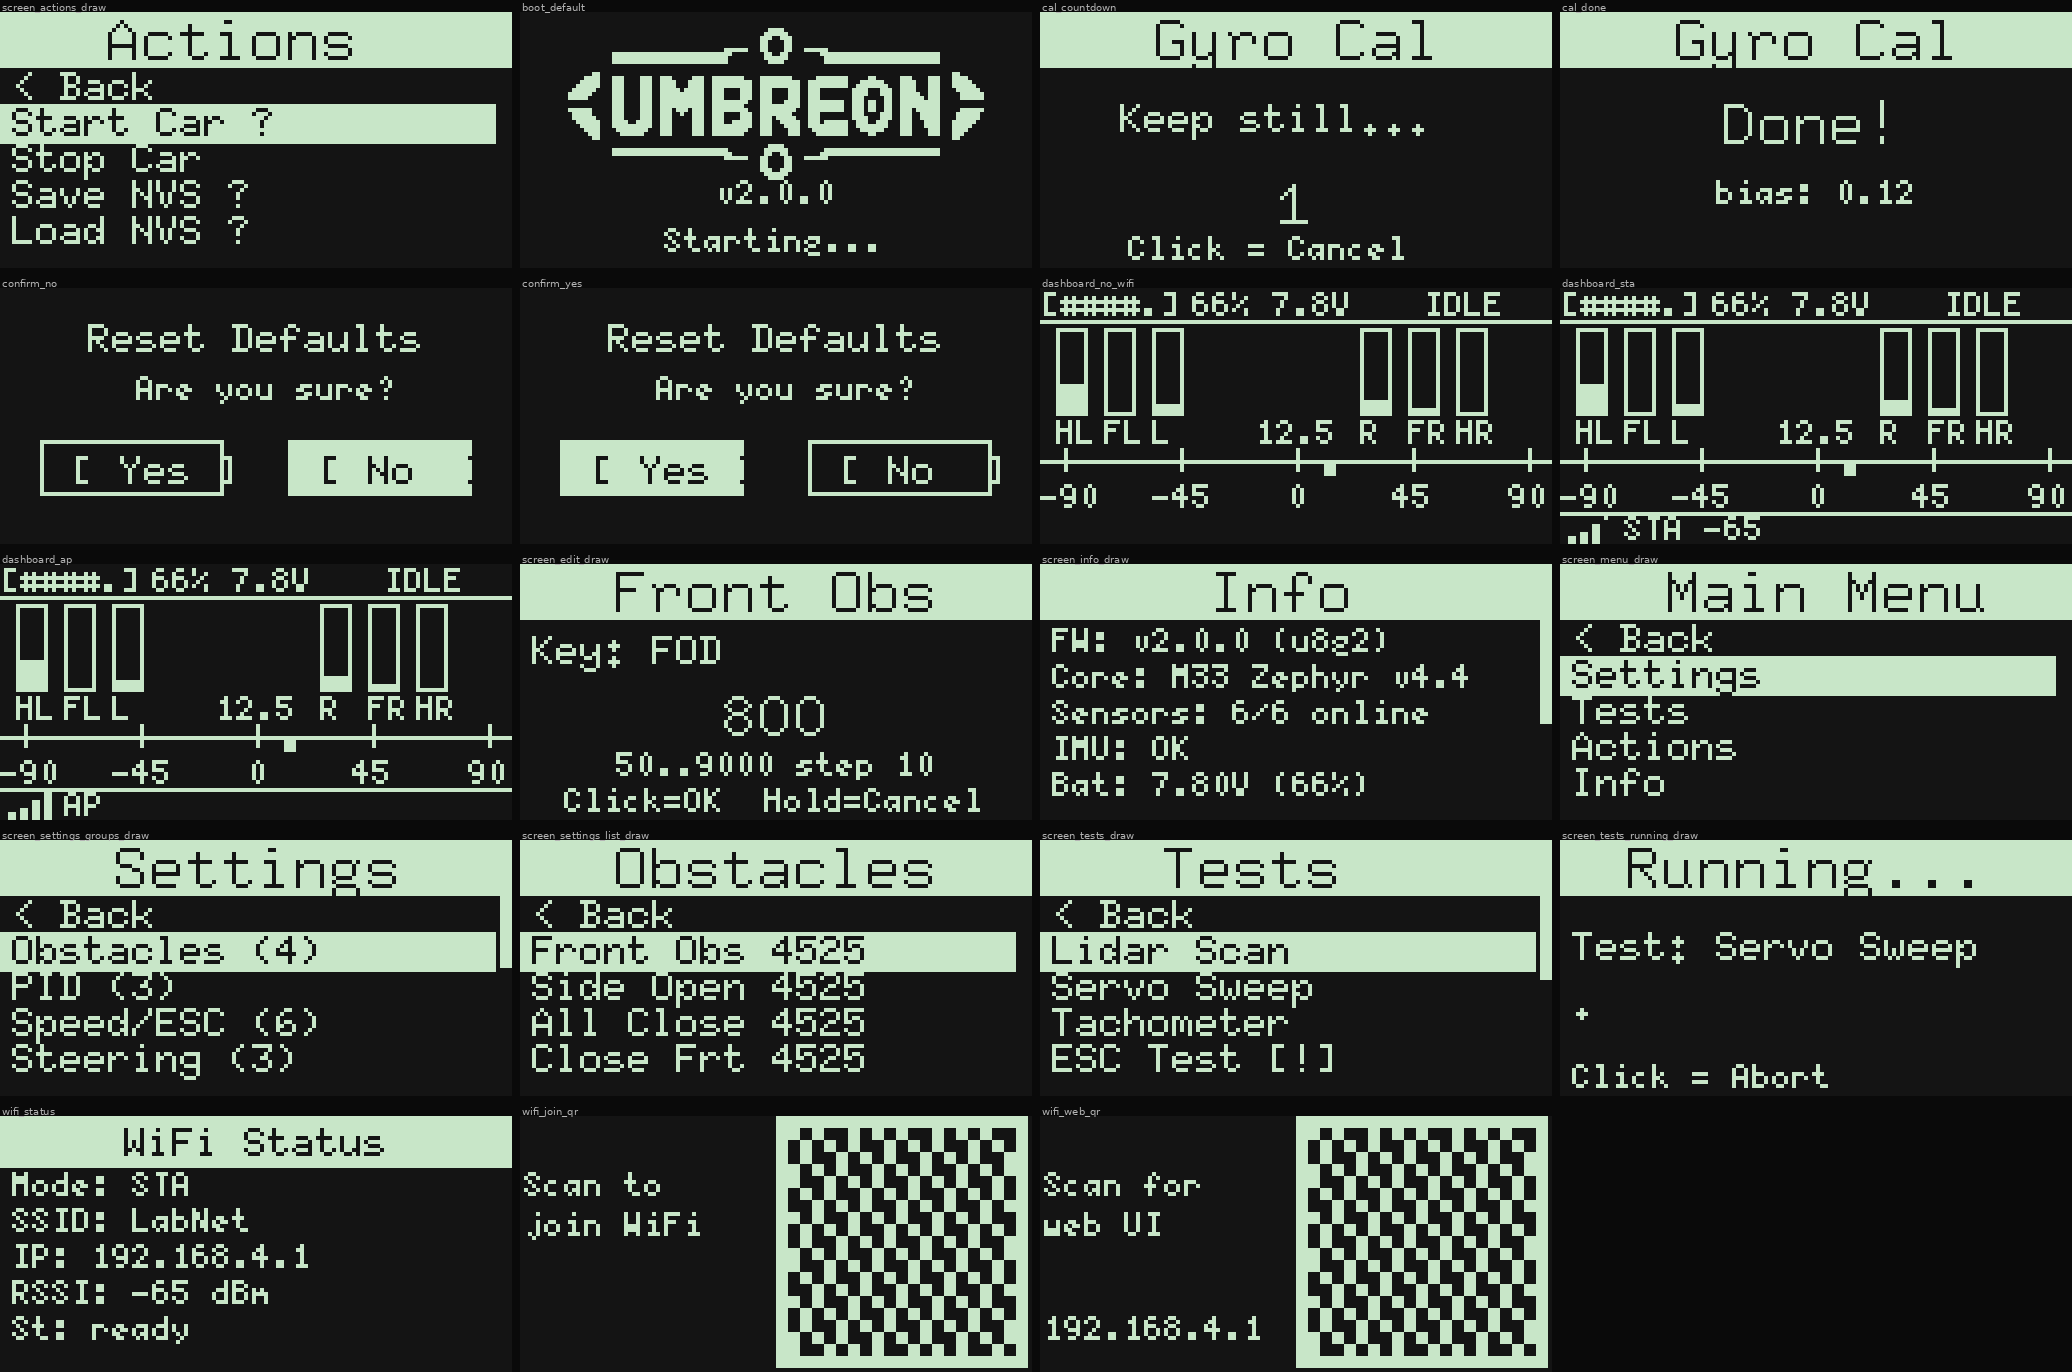
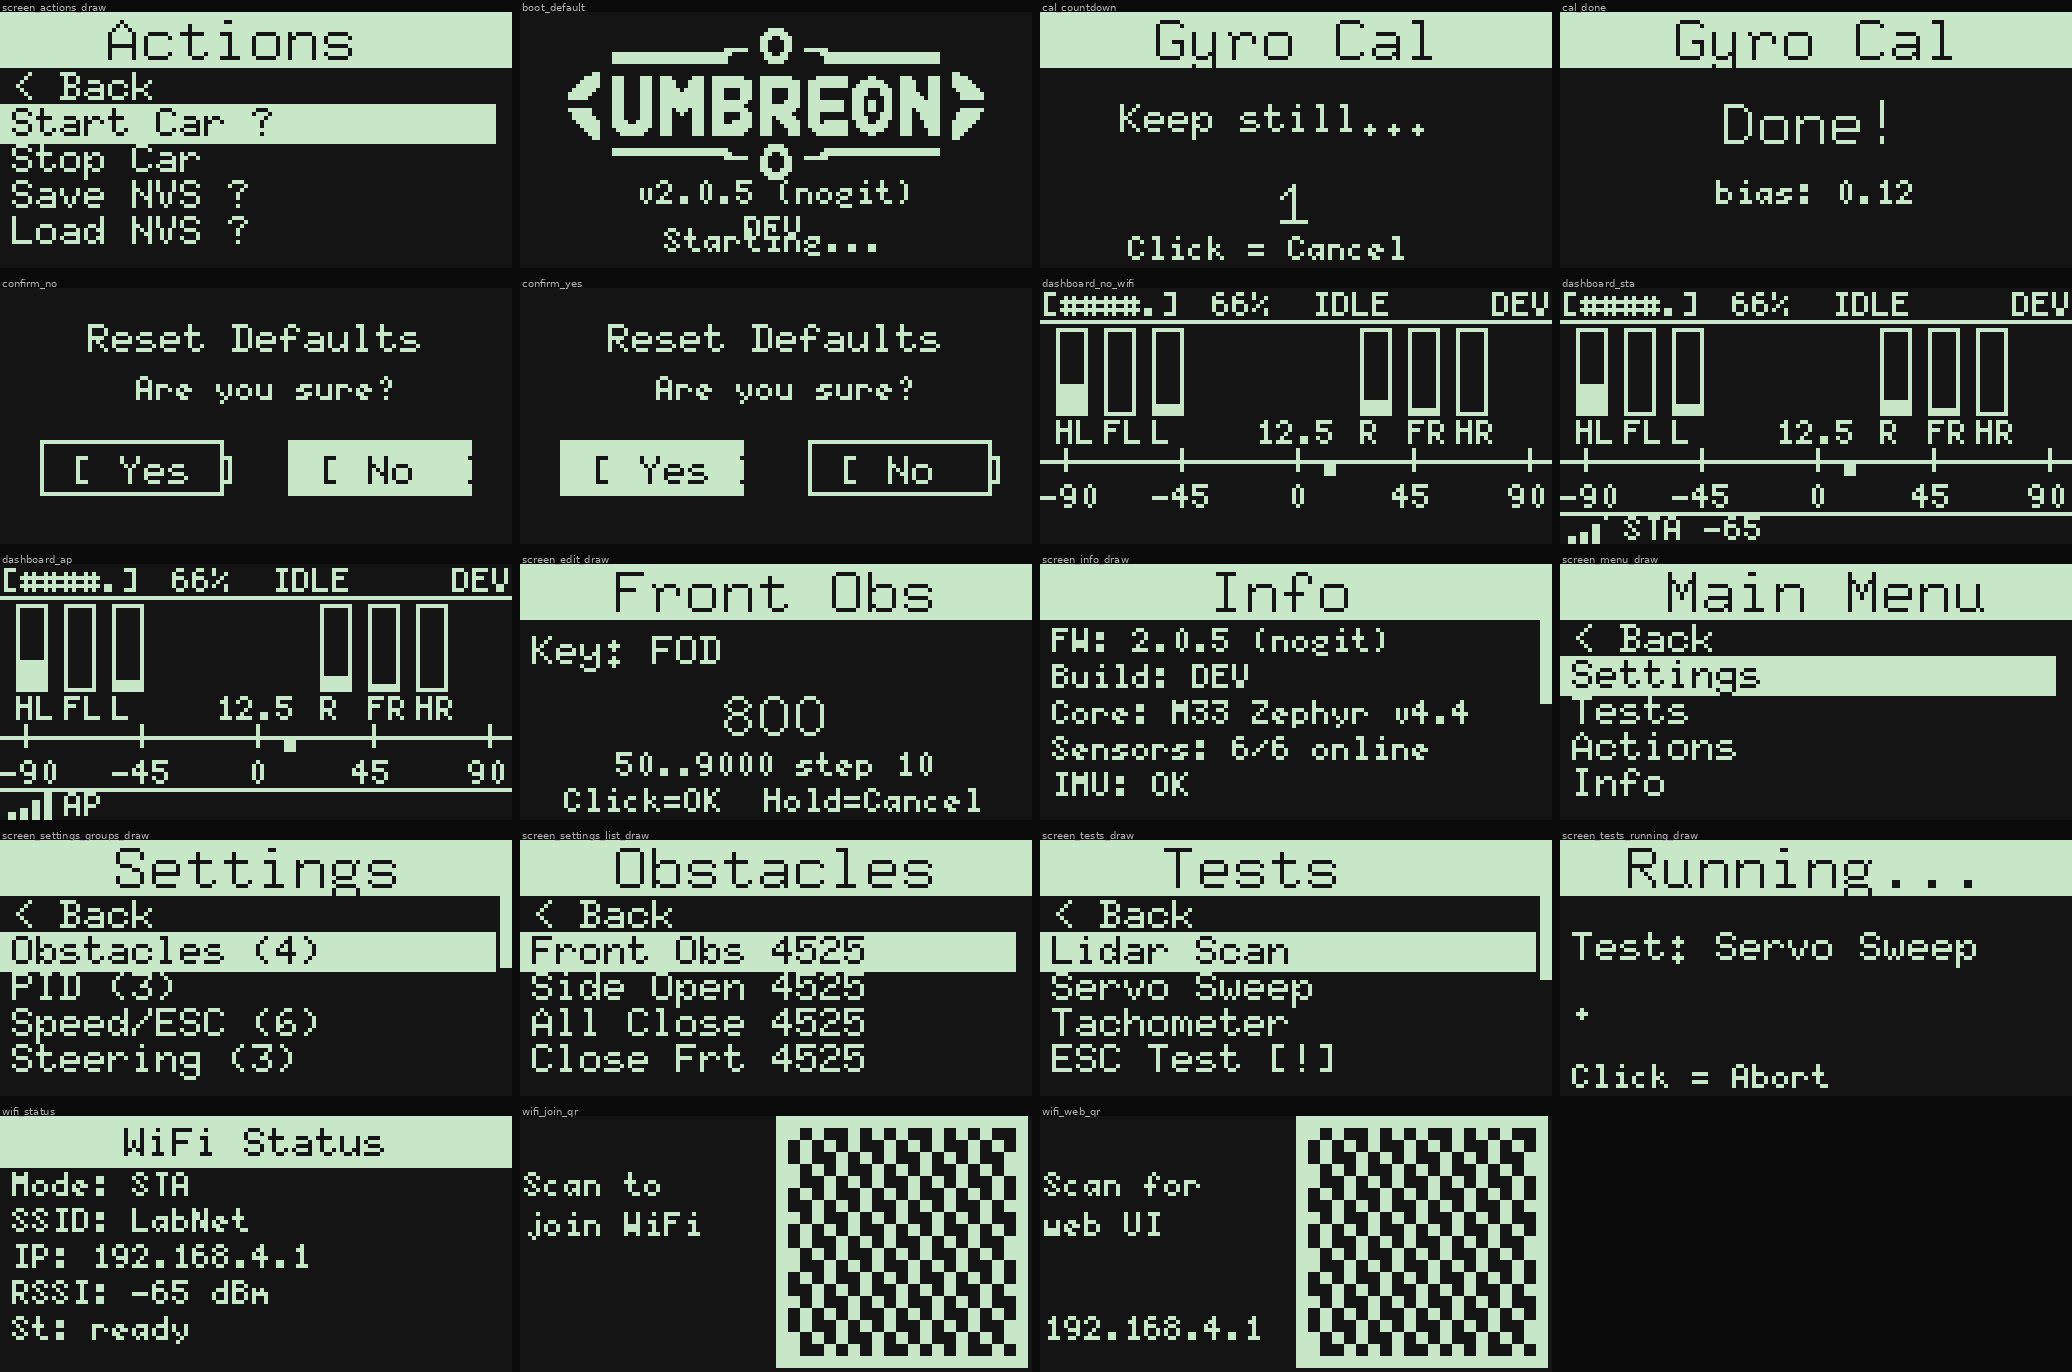
feat: add SNS recover action and update related functionality
Introduced a new action for sensor recovery (ACT_SNS_RECOVER) in the display and command handling systems. Updated the action item list, command definitions, and added handling for the new command in the WiFi command thread. Also modified the simulation dashboard to include the new action. This enhances the system's ability to recover sensors during operation.

diff --git a/src/wifi_cmd.c b/src/wifi_cmd.c
@@ -900,6 +900,18 @@ static void wifi_cmd_thread(void *p1, void *p2, void *p3)
 				sync_tach_glitch_filter();
 				wifi_cmd_send("$ACK\n");
 				break;
+			case MCMD_SNS_RECOVER:
+				control_cmd_stop();
+				wifi_cmd_send("$T:SNS,phase=manual_recovery_start\n");
+				{
+					bool ok = sensors_recover_all();
+					wifi_cmd_printf("$T:SNS,phase=manual_recovery_done,ok=%d,online=%d,restarts=%u\n",
+							ok ? 1 : 0,
+							sensors_online_count(),
+							(unsigned int)sensors_restart_count());
+					buzzer_play(ok ? BUZZER_CAL_DONE : BUZZER_ERROR);
+				}
+				break;
 			default:
 				if (mcmd >= MCMD_TEST_BASE && mcmd < MCMD_TEST_BASE + 8) {
 					static const char *test_names[] = {

diff --git a/src/display_internal.h b/src/display_internal.h
@@ -80,7 +80,7 @@ struct test_item {
 
 /* ─── Action item ────────────────────────────────────────────────────────── */
 enum action_id { ACT_START, ACT_STOP, ACT_SAVE, ACT_LOAD, ACT_RESET,
-		 ACT_GYRO_CAL, ACT_ACCEL_CAL };
+		 ACT_GYRO_CAL, ACT_ACCEL_CAL, ACT_SNS_RECOVER };
 
 struct action_item {
 	const char *label;
@@ -92,7 +92,7 @@ struct action_item {
 #define PARAM_COUNT   43
 #define GROUP_COUNT    9
 #define TEST_COUNT     8
-#define ACTION_COUNT   7
+#define ACTION_COUNT   8
 #define MAIN_REAL      5
 #define LIST_VISIBLE   5
 

diff --git a/src/display.c b/src/display.c
@@ -146,6 +146,7 @@ const struct action_item actions[ACTION_COUNT] = {
 	{"Reset Defaults", ACT_RESET, true},
 	{"Gyro Cal",       ACT_GYRO_CAL,  false},
 	{"Accel Cal",      ACT_ACCEL_CAL, false},
+	{"Restart Lidar",  ACT_SNS_RECOVER, true},
 };
 
 const char *main_items[MAIN_REAL] = {"Settings", "Tests", "Actions", "Info", "WiFi"};
@@ -299,6 +300,7 @@ static void exec_action(enum action_id id)
 	case ACT_SAVE:  cmd = MCMD_SAVE;  break;
 	case ACT_LOAD:  cmd = MCMD_LOAD;  break;
 	case ACT_RESET: cmd = MCMD_RESET; break;
+	case ACT_SNS_RECOVER: cmd = MCMD_SNS_RECOVER; break;
 	default: return;
 	}
 	k_msgq_put(&menu_cmd_q, &cmd, K_NO_WAIT);

diff --git a/tools/sim_dashboard.py b/tools/sim_dashboard.py
@@ -691,6 +691,7 @@ def write_source_harness(tmpdir, repo_root, screens_dir, funcs):
             {"Save NVS",ACT_SAVE,true}, {"Load NVS",ACT_LOAD,true},
             {"Reset Defaults",ACT_RESET,true},
             {"Gyro Cal",ACT_GYRO_CAL,false}, {"Accel Cal",ACT_ACCEL_CAL,false},
+            {"Restart Lidar",ACT_SNS_RECOVER,true},
         };
         const char *main_items[MAIN_REAL] = {"Settings", "Tests", "Actions", "Info", "WiFi"};
 

diff --git a/src/version.h b/src/version.h
@@ -8,5 +8,5 @@
 #define FW_BUILD_LABEL "DEV"
 #endif
 
-#define FW_VERSION "2.0.5"
+#define FW_VERSION "2.0.6"
 #define FW_VERSION_FULL FW_VERSION " (" FW_GIT_HASH ")"

diff --git a/src/display.h b/src/display.h
@@ -27,5 +27,6 @@ enum menu_cmd {
 	MCMD_SAVE,
 	MCMD_LOAD,
 	MCMD_RESET,
+	MCMD_SNS_RECOVER,
 	MCMD_TEST_BASE = 0x10, /* + test index 0-7 */
 };
